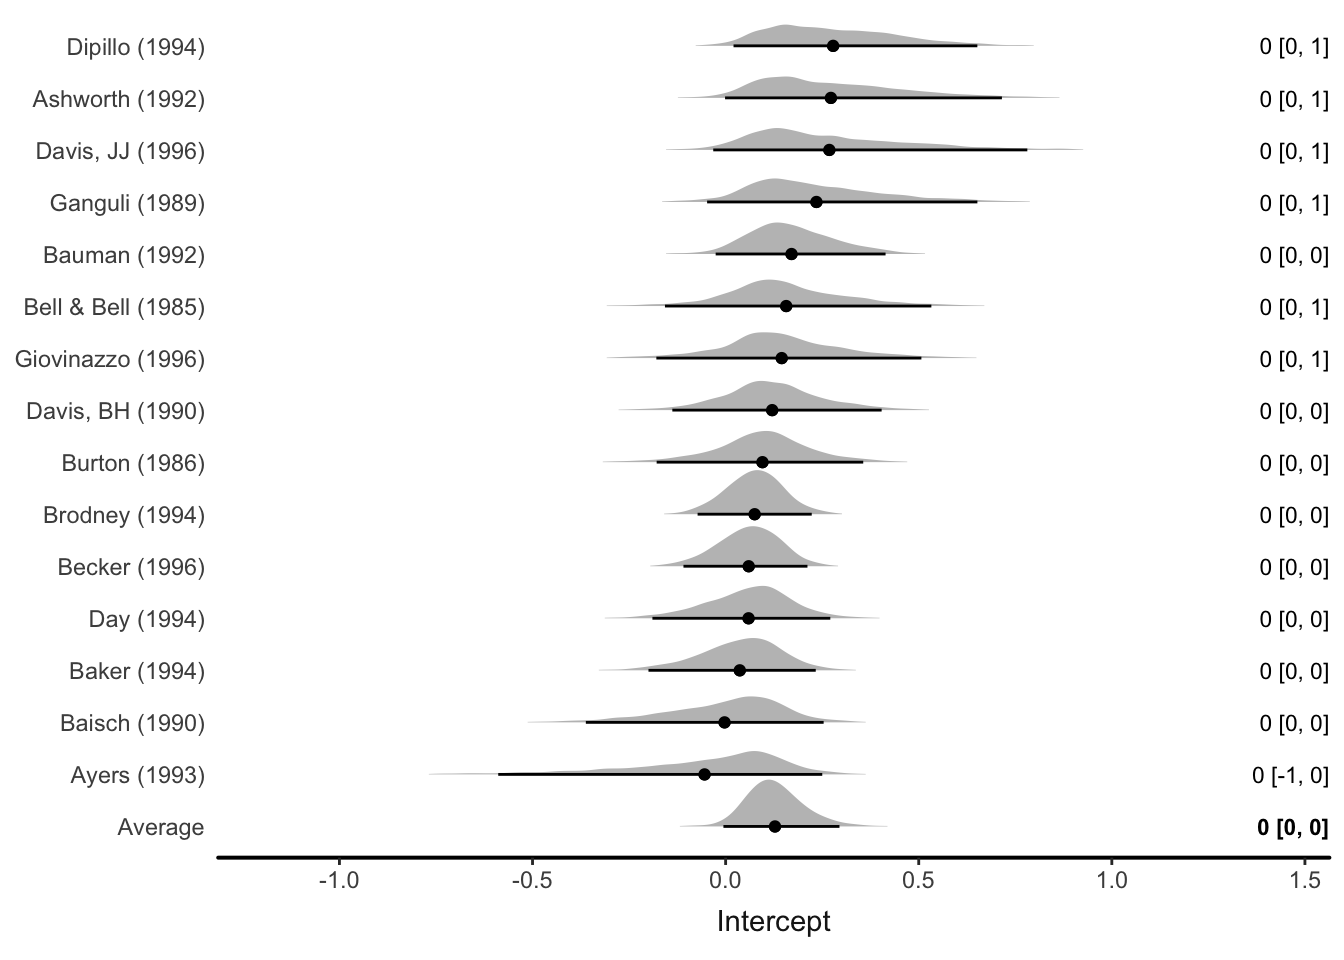
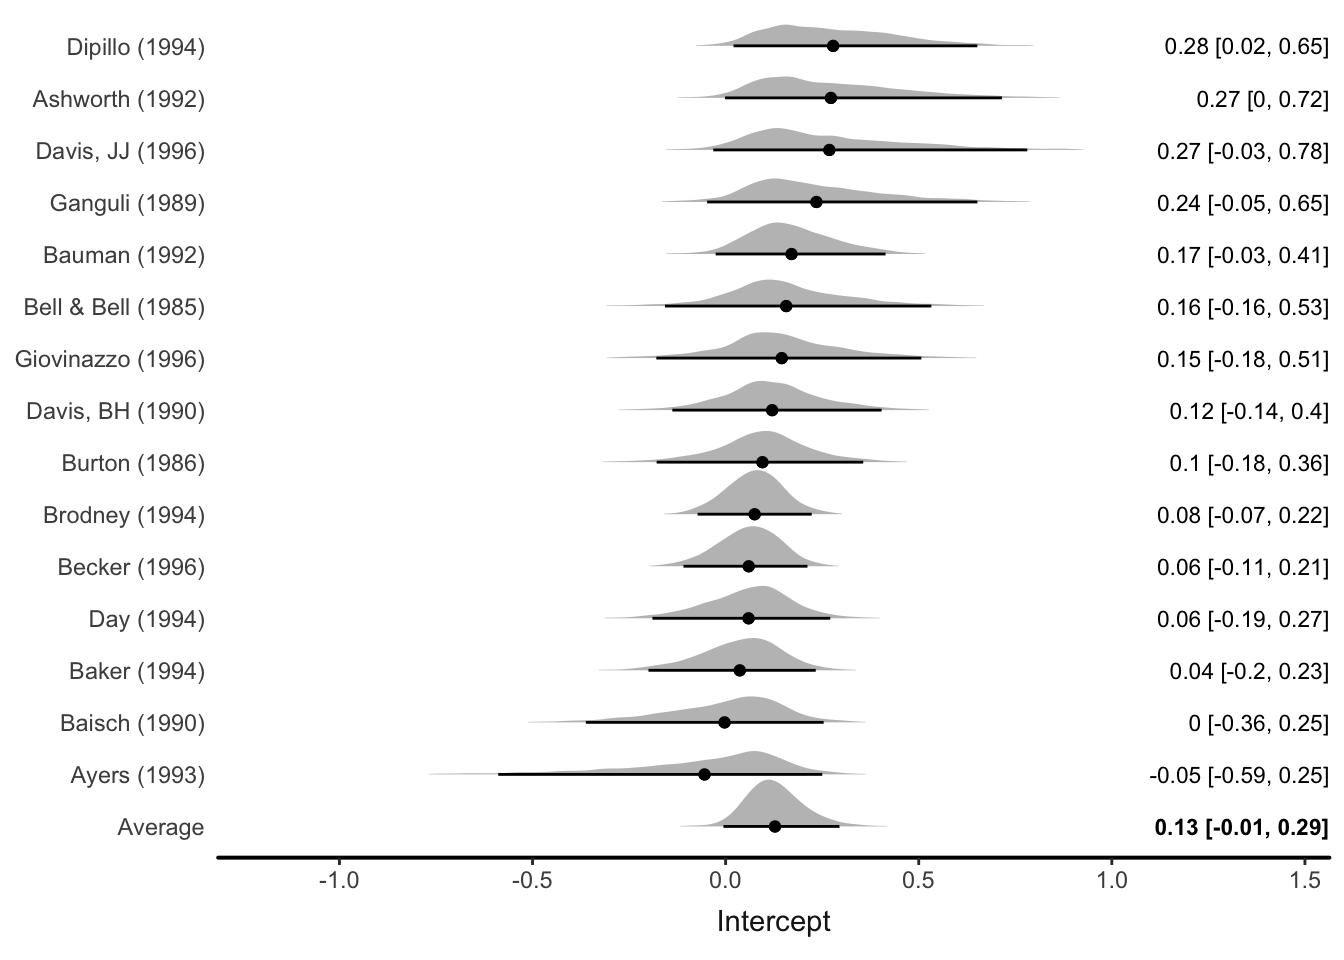
Update docs.

diff --git a/docs/articles/panel-spaghetti-plots/panel-spaghetti-plots.html b/docs/articles/panel-spaghetti-plots/panel-spaghetti-plots.html
@@ -74,7 +74,7 @@
       <h1>Panel and spaghetti plots</h1>
                         <h4 class="author">Matti Vuorre</h4>
             
-            <h4 class="date">2017-12-28</h4>
+            <h4 class="date">2018-01-02</h4>
           </div>
 
     
@@ -91,18 +91,18 @@
 <p>These functions rely on obtaining tidy tibbles of the model’s fitted values:</p>
 <div class="sourceCode" id="cb2"><pre class="sourceCode r"><code class="sourceCode r"><a class="sourceLine" id="cb2-1" data-line-number="1"><span class="kw"><a href="../../reference/tidyfitted.html">tidyfitted</a></span>(fit_ml)</a>
 <a class="sourceLine" id="cb2-2" data-line-number="2"><span class="co">#&gt; # A tibble: 190 x 7</span></a>
-<a class="sourceLine" id="cb2-3" data-line-number="3"><span class="co">#&gt;     Days Subject  type Estimate Est.Error `2.5%ile` `97.5%ile`</span></a>
-<a class="sourceLine" id="cb2-4" data-line-number="4"><span class="co">#&gt;    &lt;dbl&gt;  &lt;fctr&gt; &lt;chr&gt;    &lt;dbl&gt;     &lt;dbl&gt;     &lt;dbl&gt;      &lt;dbl&gt;</span></a>
-<a class="sourceLine" id="cb2-5" data-line-number="5"><span class="co">#&gt;  1     0     308     r 254.2409 12.882455  228.5044   279.5504</span></a>
-<a class="sourceLine" id="cb2-6" data-line-number="6"><span class="co">#&gt;  2     1     308     r 273.7942 11.038596  251.8504   295.5680</span></a>
-<a class="sourceLine" id="cb2-7" data-line-number="7"><span class="co">#&gt;  3     2     308     r 293.3474  9.483224  274.7019   311.7569</span></a>
-<a class="sourceLine" id="cb2-8" data-line-number="8"><span class="co">#&gt;  4     3     308     r 312.9007  8.378570  296.5008   329.2506</span></a>
-<a class="sourceLine" id="cb2-9" data-line-number="9"><span class="co">#&gt;  5     4     308     r 332.4540  7.915637  316.6773   348.0713</span></a>
-<a class="sourceLine" id="cb2-10" data-line-number="10"><span class="co">#&gt;  6     5     308     r 352.0073  8.203789  335.6809   367.7638</span></a>
-<a class="sourceLine" id="cb2-11" data-line-number="11"><span class="co">#&gt;  7     6     308     r 371.5605  9.172512  353.3690   389.5057</span></a>
-<a class="sourceLine" id="cb2-12" data-line-number="12"><span class="co">#&gt;  8     7     308     r 391.1138 10.637469  370.2497   411.8207</span></a>
-<a class="sourceLine" id="cb2-13" data-line-number="13"><span class="co">#&gt;  9     8     308     r 410.6671 12.424352  386.5488   434.8250</span></a>
-<a class="sourceLine" id="cb2-14" data-line-number="14"><span class="co">#&gt; 10     9     308     r 430.2204 14.413925  402.3105   458.4459</span></a>
+<a class="sourceLine" id="cb2-3" data-line-number="3"><span class="co">#&gt;     Days Subject type  Estimate Est.Error `2.5%ile` `97.5%ile`</span></a>
+<a class="sourceLine" id="cb2-4" data-line-number="4"><span class="co">#&gt;    &lt;dbl&gt; &lt;fctr&gt;  &lt;chr&gt;    &lt;dbl&gt;     &lt;dbl&gt;     &lt;dbl&gt;      &lt;dbl&gt;</span></a>
+<a class="sourceLine" id="cb2-5" data-line-number="5"><span class="co">#&gt;  1  0    308     r          254     12.9        229        280</span></a>
+<a class="sourceLine" id="cb2-6" data-line-number="6"><span class="co">#&gt;  2  1.00 308     r          274     11.0        252        296</span></a>
+<a class="sourceLine" id="cb2-7" data-line-number="7"><span class="co">#&gt;  3  2.00 308     r          293      9.48       275        312</span></a>
+<a class="sourceLine" id="cb2-8" data-line-number="8"><span class="co">#&gt;  4  3.00 308     r          313      8.38       297        329</span></a>
+<a class="sourceLine" id="cb2-9" data-line-number="9"><span class="co">#&gt;  5  4.00 308     r          332      7.92       317        348</span></a>
+<a class="sourceLine" id="cb2-10" data-line-number="10"><span class="co">#&gt;  6  5.00 308     r          352      8.20       336        368</span></a>
+<a class="sourceLine" id="cb2-11" data-line-number="11"><span class="co">#&gt;  7  6.00 308     r          372      9.17       353        390</span></a>
+<a class="sourceLine" id="cb2-12" data-line-number="12"><span class="co">#&gt;  8  7.00 308     r          391     10.6        370        412</span></a>
+<a class="sourceLine" id="cb2-13" data-line-number="13"><span class="co">#&gt;  9  8.00 308     r          411     12.4        387        435</span></a>
+<a class="sourceLine" id="cb2-14" data-line-number="14"><span class="co">#&gt; 10  9.00 308     r          430     14.4        402        458</span></a>
 <a class="sourceLine" id="cb2-15" data-line-number="15"><span class="co">#&gt; # ... with 180 more rows</span></a></code></pre></div>
 <p>Use <code><a href="../../reference/panels.html">panels()</a></code> by setting a variable to be drawn on the x-axis (<code>xvar</code>), and (optional) parameter to sort the panels by:</p>
 <div class="sourceCode" id="cb3"><pre class="sourceCode r"><code class="sourceCode r"><a class="sourceLine" id="cb3-1" data-line-number="1"><span class="kw"><a href="../../reference/panels.html">panels</a></span>(fit_ml, <span class="dt">xvar =</span> <span class="st">"Days"</span>, <span class="dt">sort =</span> <span class="st">"Days"</span>)</a>

diff --git a/docs/reference/forest.html b/docs/reference/forest.html
@@ -104,10 +104,10 @@
 especially useful for random-effects meta-analytic models.</p>
     
 
-    <pre class="usage"><span class='fu'>forest</span>(<span class='no'>model</span>, <span class='kw'>pars</span> <span class='kw'>=</span> <span class='fl'>NA</span>, <span class='kw'>level</span> <span class='kw'>=</span> <span class='fl'>0.95</span>, <span class='kw'>av_name</span> <span class='kw'>=</span> <span class='st'>"Average"</span>, <span class='kw'>sort</span> <span class='kw'>=</span> <span class='fl'>TRUE</span>,
-  <span class='kw'>show_data</span> <span class='kw'>=</span> <span class='fl'>FALSE</span>, <span class='kw'>col_ridge</span> <span class='kw'>=</span> <span class='fl'>NA</span>, <span class='kw'>fill_ridge</span> <span class='kw'>=</span> <span class='st'>"grey75"</span>,
-  <span class='kw'>density</span> <span class='kw'>=</span> <span class='fl'>TRUE</span>, <span class='kw'>text</span> <span class='kw'>=</span> <span class='fl'>TRUE</span>, <span class='kw'>rel_min_height</span> <span class='kw'>=</span> <span class='fl'>0.01</span>, <span class='kw'>scale</span> <span class='kw'>=</span> <span class='fl'>0.9</span>,
-  <span class='kw'>digits</span> <span class='kw'>=</span> <span class='fl'>2</span>, <span class='kw'>theme_forest</span> <span class='kw'>=</span> <span class='fl'>TRUE</span>)</pre>
+    <pre class="usage"><span class='fu'>forest</span>(<span class='no'>model</span>, <span class='kw'>grouping</span> <span class='kw'>=</span> <span class='fl'>NA</span>, <span class='kw'>pars</span> <span class='kw'>=</span> <span class='fl'>NA</span>, <span class='kw'>level</span> <span class='kw'>=</span> <span class='fl'>0.95</span>,
+  <span class='kw'>av_name</span> <span class='kw'>=</span> <span class='st'>"Average"</span>, <span class='kw'>sort</span> <span class='kw'>=</span> <span class='fl'>TRUE</span>, <span class='kw'>show_data</span> <span class='kw'>=</span> <span class='fl'>FALSE</span>, <span class='kw'>col_ridge</span> <span class='kw'>=</span> <span class='fl'>NA</span>,
+  <span class='kw'>fill_ridge</span> <span class='kw'>=</span> <span class='st'>"grey75"</span>, <span class='kw'>density</span> <span class='kw'>=</span> <span class='fl'>TRUE</span>, <span class='kw'>text</span> <span class='kw'>=</span> <span class='fl'>TRUE</span>,
+  <span class='kw'>rel_min_height</span> <span class='kw'>=</span> <span class='fl'>0.01</span>, <span class='kw'>scale</span> <span class='kw'>=</span> <span class='fl'>0.9</span>, <span class='kw'>digits</span> <span class='kw'>=</span> <span class='fl'>2</span>, <span class='kw'>theme_forest</span> <span class='kw'>=</span> <span class='fl'>TRUE</span>)</pre>
     
     <h2 class="hasAnchor" id="arguments"><a class="anchor" href="#arguments"></a> Arguments</h2>
     <table class="ref-arguments">
@@ -115,6 +115,11 @@ especially useful for random-effects meta-analytic models.</p>
     <tr>
       <th>model</th>
       <td><p>A brmsfit object.</p></td>
+    </tr>
+    <tr>
+      <th>grouping</th>
+      <td><p>Name of grouping variable (e.g. <code>(1 | grouping)</code>). Defaults
+to <code>NA</code> which returns the unique / first grouping factor in model.</p></td>
     </tr>
     <tr>
       <th>pars</th>
@@ -127,7 +132,7 @@ Defaults to 0.95.</p></td>
     </tr>
     <tr>
       <th>av_name</th>
-      <td><p>Name of average parameter (e.g. `"Meta-Analytic\nestimate"`)</p></td>
+      <td><p>Name of average parameter (e.g. <code>"Meta-Analytic\nestimate"</code>)</p></td>
     </tr>
     <tr>
       <th>sort</th>
@@ -157,11 +162,11 @@ and standard error below the meta-analytic estimates. Defaults to FALSE.</p></td
     </tr>
     <tr>
       <th>rel_min_height</th>
-      <td><p>Passed to [ggridges::geom_density_ridges()].</p></td>
+      <td><p>Passed to <code><a href='http://www.rdocumentation.org/packages/ggridges/topics/geom_density_ridges'>ggridges::geom_density_ridges()</a></code>.</p></td>
     </tr>
     <tr>
       <th>scale</th>
-      <td><p>Passed to [ggridges::geom_density_ridges()].</p></td>
+      <td><p>Passed to <code><a href='http://www.rdocumentation.org/packages/ggridges/topics/geom_density_ridges'>ggridges::geom_density_ridges()</a></code>.</p></td>
     </tr>
     <tr>
       <th>digits</th>
@@ -169,7 +174,7 @@ and standard error below the meta-analytic estimates. Defaults to FALSE.</p></td
     </tr>
     <tr>
       <th>theme_forest</th>
-      <td><p>Use [brmstools::theme_forest()] ggplot2 theme?</p></td>
+      <td><p>Use <code><a href='theme_forest.html'>theme_forest()</a></code> ggplot2 theme?</p></td>
     </tr>
     </table>
     

diff --git a/docs/reference/get_grouping.html b/docs/reference/get_grouping.html
@@ -6,7 +6,7 @@
 <meta http-equiv="X-UA-Compatible" content="IE=edge">
 <meta name="viewport" content="width=device-width, initial-scale=1.0">
 
-<title>Coefficient plots for brms models — coefplot • brmstools</title>
+<title>Get grouping factors for brmsfit model — get_grouping • brmstools</title>
 
 <!-- jquery -->
 <script src="https://code.jquery.com/jquery-3.1.0.min.js" integrity="sha384-nrOSfDHtoPMzJHjVTdCopGqIqeYETSXhZDFyniQ8ZHcVy08QesyHcnOUpMpqnmWq" crossorigin="anonymous"></script>
@@ -96,81 +96,31 @@
       <div class="row">
   <div class="col-md-9 contents">
     <div class="page-header">
-    <h1>Coefficient plots for brms models</h1>
+    <h1>Get grouping factors for brmsfit model</h1>
     </div>
 
     
-    <p>A more traditional version of <code><a href='http://www.rdocumentation.org/packages/bayesplot/topics/MCMC-intervals'>bayesplot::mcmc_intervals()</a></code>, additionally
-showing parameter means (and CIs) for each grouping factor.</p>
+    <p>Used internally by brmstools</p>
     
 
-    <pre class="usage"><span class='fu'>coefplot</span>(<span class='no'>model</span>, <span class='kw'>grouping</span> <span class='kw'>=</span> <span class='fl'>NA</span>, <span class='kw'>level</span> <span class='kw'>=</span> <span class='fl'>0.95</span>, <span class='kw'>pars</span> <span class='kw'>=</span> <span class='fl'>NA</span>, <span class='kw'>type</span> <span class='kw'>=</span> <span class='st'>"br"</span>,
-  <span class='kw'>interval_col</span> <span class='kw'>=</span> <span class='st'>"black"</span>, <span class='kw'>interval_h</span> <span class='kw'>=</span> <span class='fl'>0.1</span>, <span class='kw'>point_col</span> <span class='kw'>=</span> <span class='st'>"black"</span>,
-  <span class='kw'>point_size</span> <span class='kw'>=</span> <span class='fl'>3</span>, <span class='kw'>r_col</span> <span class='kw'>=</span> <span class='st'>"black"</span>, <span class='kw'>r_intervals</span> <span class='kw'>=</span> <span class='fl'>FALSE</span>, <span class='kw'>r_alpha</span> <span class='kw'>=</span> <span class='fl'>0.5</span>,
-  <span class='no'>...</span>)</pre>
+    <pre class="usage"><span class='fu'>get_grouping</span>(<span class='no'>model</span>, <span class='no'>grouping</span>)</pre>
     
     <h2 class="hasAnchor" id="arguments"><a class="anchor" href="#arguments"></a> Arguments</h2>
     <table class="ref-arguments">
     <colgroup><col class="name" /><col class="desc" /></colgroup>
     <tr>
       <th>model</th>
-      <td><p>A brmsfit model</p></td>
+      <td><p>a brmsfit model</p></td>
     </tr>
     <tr>
       <th>grouping</th>
-      <td><p>Name of grouping variable (e.g. <code>(1 | grouping)</code>). Defaults
-to <code>NA</code> which returns the unique / first grouping factor in model.</p></td>
-    </tr>
-    <tr>
-      <th>level</th>
-      <td><p>For limits of credible intervals</p></td>
-    </tr>
-    <tr>
-      <th>pars</th>
-      <td><p>Which parameters to show (defaults to NA (all parameters)).</p></td>
-    </tr>
-    <tr>
-      <th>type</th>
-      <td><p>Show population level ("b"), group-specific ("r"), or
-both types ("br", default) of parameters.</p></td>
-    </tr>
-    <tr>
-      <th>interval_col</th>
-      <td><p>Color of intervals</p></td>
-    </tr>
-    <tr>
-      <th>interval_h</th>
-      <td><p>Height of bars at credible interval limits</p></td>
-    </tr>
-    <tr>
-      <th>point_col</th>
-      <td><p>Color of points</p></td>
-    </tr>
-    <tr>
-      <th>point_size</th>
-      <td><p>Size of points</p></td>
-    </tr>
-    <tr>
-      <th>r_col</th>
-      <td><p>Color of points for group-specific posterior means</p></td>
-    </tr>
-    <tr>
-      <th>r_intervals</th>
-      <td><p>Show credible intervals for group-specific parameters?</p></td>
-    </tr>
-    <tr>
-      <th>r_alpha</th>
-      <td><p>Transparency of group-specific estimates</p></td>
-    </tr>
-    <tr>
-      <th>...</th>
-      <td><p>Passed to <code><a href='tidyfitted.html'>tidyfitted()</a></code></p></td>
+      <td><p>name of grouping factor or <code>NA</code>.</p></td>
     </tr>
     </table>
     
     <h2 class="hasAnchor" id="value"><a class="anchor" href="#value"></a>Value</h2>
 
-    <p>a ggplot</p>
+    <p>character</p>
     
 
   </div>

diff --git a/docs/reference/spaghetti.html b/docs/reference/spaghetti.html
@@ -104,9 +104,9 @@
 in a single panel with (optional) the average fitted line.</p>
     
 
-    <pre class="usage"><span class='fu'>spaghetti</span>(<span class='no'>model</span>, <span class='kw'>level</span> <span class='kw'>=</span> <span class='fl'>0.95</span>, <span class='kw'>xvar</span> <span class='kw'>=</span> <span class='fl'>NA</span>, <span class='kw'>line_col</span> <span class='kw'>=</span> <span class='st'>"black"</span>,
-  <span class='kw'>line_lty</span> <span class='kw'>=</span> <span class='fl'>1</span>, <span class='kw'>ribbon_col</span> <span class='kw'>=</span> <span class='fl'>NA</span>, <span class='kw'>ribbon_fill</span> <span class='kw'>=</span> <span class='st'>"grey60"</span>,
-  <span class='kw'>ribbon_alpha</span> <span class='kw'>=</span> <span class='fl'>0.3</span>, <span class='kw'>average</span> <span class='kw'>=</span> <span class='no'>T</span>, <span class='no'>...</span>)</pre>
+    <pre class="usage"><span class='fu'>spaghetti</span>(<span class='no'>model</span>, <span class='kw'>grouping</span> <span class='kw'>=</span> <span class='fl'>NA</span>, <span class='kw'>level</span> <span class='kw'>=</span> <span class='fl'>0.95</span>, <span class='kw'>xvar</span> <span class='kw'>=</span> <span class='fl'>NA</span>,
+  <span class='kw'>line_col</span> <span class='kw'>=</span> <span class='st'>"black"</span>, <span class='kw'>line_lty</span> <span class='kw'>=</span> <span class='fl'>1</span>, <span class='kw'>ribbon_col</span> <span class='kw'>=</span> <span class='fl'>NA</span>,
+  <span class='kw'>ribbon_fill</span> <span class='kw'>=</span> <span class='st'>"grey60"</span>, <span class='kw'>ribbon_alpha</span> <span class='kw'>=</span> <span class='fl'>0.3</span>, <span class='kw'>average</span> <span class='kw'>=</span> <span class='no'>T</span>, <span class='no'>...</span>)</pre>
     
     <h2 class="hasAnchor" id="arguments"><a class="anchor" href="#arguments"></a> Arguments</h2>
     <table class="ref-arguments">
@@ -114,6 +114,11 @@ in a single panel with (optional) the average fitted line.</p>
     <tr>
       <th>model</th>
       <td><p>A brmsfit model</p></td>
+    </tr>
+    <tr>
+      <th>grouping</th>
+      <td><p>Name of grouping variable (e.g. <code>(1 | grouping)</code>). Defaults
+to <code>NA</code> which returns the unique / first grouping factor in model.</p></td>
     </tr>
     <tr>
       <th>level</th>
@@ -149,7 +154,7 @@ in a single panel with (optional) the average fitted line.</p>
     </tr>
     <tr>
       <th>...</th>
-      <td><p>Passed to [tidyfitted()]</p></td>
+      <td><p>Passed to <code><a href='tidyfitted.html'>tidyfitted()</a></code></p></td>
     </tr>
     </table>
     

diff --git a/docs/reference/panels.html b/docs/reference/panels.html
@@ -104,8 +104,8 @@
 separate panel.</p>
     
 
-    <pre class="usage"><span class='fu'>panels</span>(<span class='no'>model</span>, <span class='kw'>level</span> <span class='kw'>=</span> <span class='fl'>0.95</span>, <span class='kw'>data</span> <span class='kw'>=</span> <span class='no'>T</span>, <span class='kw'>sort</span> <span class='kw'>=</span> <span class='fl'>NA</span>, <span class='kw'>xvar</span> <span class='kw'>=</span> <span class='fl'>NA</span>,
-  <span class='kw'>line_col</span> <span class='kw'>=</span> <span class='st'>"black"</span>, <span class='kw'>line_lty</span> <span class='kw'>=</span> <span class='fl'>1</span>, <span class='kw'>ribbon_col</span> <span class='kw'>=</span> <span class='fl'>NA</span>,
+    <pre class="usage"><span class='fu'>panels</span>(<span class='no'>model</span>, <span class='kw'>grouping</span> <span class='kw'>=</span> <span class='fl'>NA</span>, <span class='kw'>level</span> <span class='kw'>=</span> <span class='fl'>0.95</span>, <span class='kw'>data</span> <span class='kw'>=</span> <span class='no'>T</span>, <span class='kw'>sort</span> <span class='kw'>=</span> <span class='fl'>NA</span>,
+  <span class='kw'>xvar</span> <span class='kw'>=</span> <span class='fl'>NA</span>, <span class='kw'>line_col</span> <span class='kw'>=</span> <span class='st'>"black"</span>, <span class='kw'>line_lty</span> <span class='kw'>=</span> <span class='fl'>1</span>, <span class='kw'>ribbon_col</span> <span class='kw'>=</span> <span class='fl'>NA</span>,
   <span class='kw'>ribbon_fill</span> <span class='kw'>=</span> <span class='st'>"grey60"</span>, <span class='kw'>ribbon_alpha</span> <span class='kw'>=</span> <span class='fl'>0.2</span>, <span class='no'>...</span>)</pre>
     
     <h2 class="hasAnchor" id="arguments"><a class="anchor" href="#arguments"></a> Arguments</h2>
@@ -114,6 +114,11 @@ separate panel.</p>
     <tr>
       <th>model</th>
       <td><p>A brmsfit model</p></td>
+    </tr>
+    <tr>
+      <th>grouping</th>
+      <td><p>Name of grouping variable (e.g. <code>(1 | grouping)</code>). Defaults
+to <code>NA</code> which returns the unique / first grouping factor in model.</p></td>
     </tr>
     <tr>
       <th>level</th>
@@ -153,7 +158,7 @@ separate panel.</p>
     </tr>
     <tr>
       <th>...</th>
-      <td><p>Passed to [tidyfitted()]</p></td>
+      <td><p>Passed to <code><a href='tidyfitted.html'>tidyfitted()</a></code></p></td>
     </tr>
     </table>
     

diff --git a/docs/reference/tidycoef.html b/docs/reference/tidycoef.html
@@ -106,7 +106,7 @@ from the parameter. Especially useful for plots where the "fixed"
 parameters should be shown next to their "random" counterparts.</p>
     
 
-    <pre class="usage"><span class='fu'>tidycoef</span>(<span class='no'>model</span>, <span class='kw'>pars</span> <span class='kw'>=</span> <span class='fl'>NA</span>, <span class='kw'>summary</span> <span class='kw'>=</span> <span class='fl'>FALSE</span>, <span class='kw'>level</span> <span class='kw'>=</span> <span class='fl'>0.95</span>)</pre>
+    <pre class="usage"><span class='fu'>tidycoef</span>(<span class='no'>model</span>, <span class='kw'>grouping</span> <span class='kw'>=</span> <span class='fl'>NA</span>, <span class='kw'>pars</span> <span class='kw'>=</span> <span class='fl'>NA</span>, <span class='kw'>summary</span> <span class='kw'>=</span> <span class='fl'>FALSE</span>, <span class='kw'>level</span> <span class='kw'>=</span> <span class='fl'>0.95</span>)</pre>
     
     <h2 class="hasAnchor" id="arguments"><a class="anchor" href="#arguments"></a> Arguments</h2>
     <table class="ref-arguments">
@@ -116,9 +116,14 @@ parameters should be shown next to their "random" counterparts.</p>
       <td><p>A brmsfit.</p></td>
     </tr>
     <tr>
+      <th>grouping</th>
+      <td><p>Name of grouping variable (e.g. <code>(1 | grouping)</code>). Defaults
+to <code>NA</code> which returns the unique / first grouping factor in model.</p></td>
+    </tr>
+    <tr>
       <th>pars</th>
       <td><p>Parameters to extract; must match exactly. Combine many with
-`c(...)`.</p></td>
+<code>c(...)</code>.</p></td>
     </tr>
     <tr>
       <th>summary</th>

diff --git a/docs/reference/tidyfitted.html b/docs/reference/tidyfitted.html
@@ -104,7 +104,7 @@
 plotting functions</p>
     
 
-    <pre class="usage"><span class='fu'>tidyfitted</span>(<span class='no'>model</span>, <span class='kw'>xvar</span> <span class='kw'>=</span> <span class='fl'>NA</span>, <span class='kw'>level</span> <span class='kw'>=</span> <span class='fl'>0.95</span>, <span class='no'>...</span>)</pre>
+    <pre class="usage"><span class='fu'>tidyfitted</span>(<span class='no'>model</span>, <span class='kw'>grouping</span> <span class='kw'>=</span> <span class='fl'>NA</span>, <span class='kw'>xvar</span> <span class='kw'>=</span> <span class='fl'>NA</span>, <span class='kw'>level</span> <span class='kw'>=</span> <span class='fl'>0.95</span>, <span class='no'>...</span>)</pre>
     
     <h2 class="hasAnchor" id="arguments"><a class="anchor" href="#arguments"></a> Arguments</h2>
     <table class="ref-arguments">
@@ -112,6 +112,11 @@ plotting functions</p>
     <tr>
       <th>model</th>
       <td><p>a brmsfit model</p></td>
+    </tr>
+    <tr>
+      <th>grouping</th>
+      <td><p>Name of grouping variable (e.g. <code>(1 | grouping)</code>). Defaults
+to <code>NA</code> which returns the unique / first grouping factor in model.</p></td>
     </tr>
     <tr>
       <th>xvar</th>
@@ -123,7 +128,7 @@ plotting functions</p>
     </tr>
     <tr>
       <th>...</th>
-      <td><p>Passed to [brms::fitted()]</p></td>
+      <td><p>Passed to <code><a href='http://www.rdocumentation.org/packages/brms/topics/fitted.brmsfit'>brms::fitted.brmsfit()</a></code></p></td>
     </tr>
     </table>
     

diff --git a/docs/index.html b/docs/index.html
@@ -100,7 +100,7 @@
 <h1 class="hasAnchor">
 <a href="#forest-plots" class="anchor"></a>Forest plots</h1>
 <p>Notably, <code><a href="reference/forest.html">forest()</a></code> draws forest plots for meta-analytic and multilevel models:</p>
-<div class="sourceCode" id="cb3"><pre class="sourceCode r"><code class="sourceCode r"><a class="sourceLine" id="cb3-1" data-line-number="1"><span class="kw"><a href="reference/forest.html">forest</a></span>(fit_rem, <span class="dt">digits=</span><span class="dv">0</span>)</a>
+<div class="sourceCode" id="cb3"><pre class="sourceCode r"><code class="sourceCode r"><a class="sourceLine" id="cb3-1" data-line-number="1"><span class="kw"><a href="reference/forest.html">forest</a></span>(fit_rem)</a>
 <a class="sourceLine" id="cb3-2" data-line-number="2"><span class="co">#&gt; Picking joint bandwidth of 0.0227</span></a></code></pre></div>
 <p><img src="reference/figures/README-forest-1.png" width="100%"></p>
 </div>

diff --git a/docs/reference/index.html b/docs/reference/index.html
@@ -98,7 +98,7 @@
     <div class="page-header">
       <h1>
         Reference
-        <small>version&nbsp;0.4.0</small>
+        <small>version&nbsp;0.5.1</small>
       </h1>
     </div>
 
@@ -129,6 +129,12 @@
             <p><code><a href="forest.html">forest</a></code> </p>
           </td>
           <td><p>Forest plots for brmsfit objects</p></td>
+        </tr><tr>
+          <!--  -->
+          <td>
+            <p><code><a href="get_grouping.html">get_grouping</a></code> </p>
+          </td>
+          <td><p>Get grouping factors for brmsfit model</p></td>
         </tr><tr>
           <!--  -->
           <td>

diff --git a/docs/articles/forest-plots/forest-plots.html b/docs/articles/forest-plots/forest-plots.html
@@ -74,7 +74,7 @@
       <h1>Forest plots for brmsfit models with varying effects</h1>
                         <h4 class="author">Matti Vuorre</h4>
             
-            <h4 class="date">2017-12-28</h4>
+            <h4 class="date">2018-01-02</h4>
           </div>
 
     

diff --git a/docs/articles/coefficient-plots/coefficient-plots.html b/docs/articles/coefficient-plots/coefficient-plots.html
@@ -74,7 +74,7 @@
       <h1>Coefficient plots</h1>
                         <h4 class="author">Matti Vuorre</h4>
             
-            <h4 class="date">2017-12-28</h4>
+            <h4 class="date">2018-01-02</h4>
           </div>
 
     

diff --git a/docs/articles/index.html b/docs/articles/index.html
@@ -94,7 +94,7 @@
       </header>
 
       <div class="page-header">
-  <h1>Articles <small>version&nbsp;0.4.0</small></h1>
+  <h1>Articles <small>version&nbsp;0.5.1</small></h1>
 </div>
 
 <div class="row">
